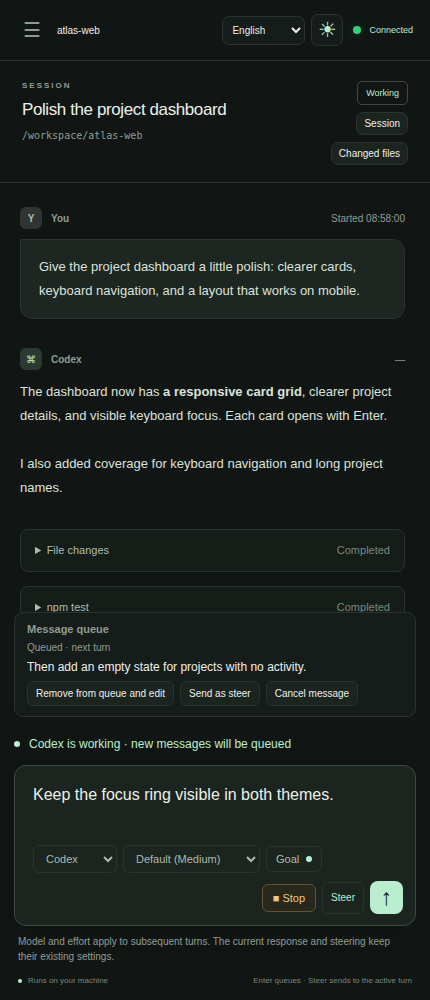
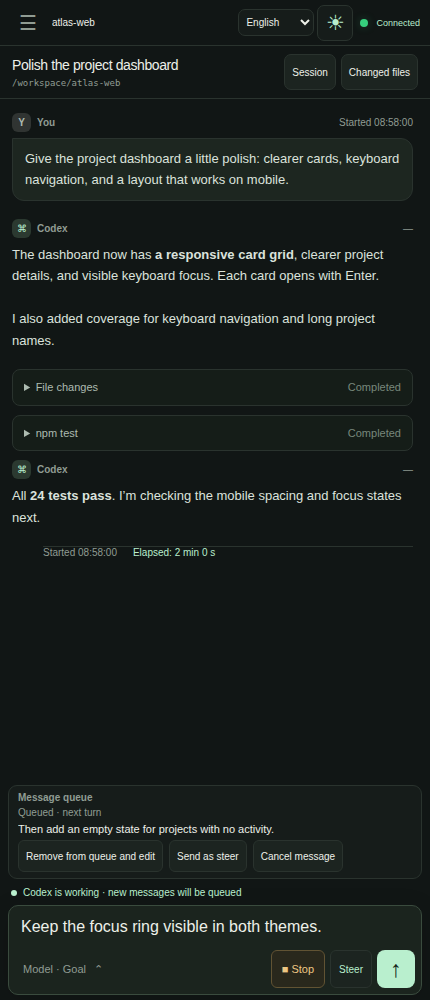
Make mobile chat compact and adapt the composer to the visible viewport

diff --git a/public/index.html b/public/index.html
@@ -60,7 +60,7 @@ værktøjer og eksisterende indstillinger.</span></p><div class="card-bottom"><s
         <div class="session-content"><div class="conversation">
         <div id="timeline" class="timeline" tabindex="0" aria-label="Samtalehistorik" data-i18n-aria="session.history"><button id="older-turns" class="quiet older" hidden><span data-i18n="session.older">Indlæs tidligere beskeder</span></button><div id="messages"></div><div id="activity" class="activity" role="status" hidden><span class="working-dot"></span> <span data-i18n="session.working">Codex arbejder…</span></div></div>
         <div id="requests" class="requests" aria-label="Afventer dit svar" data-i18n-aria="session.requests"></div>
-        <div id="queue-area" class="queue-area" hidden aria-labelledby="queue-heading"><h2 id="queue-heading" data-i18n="queue.title">Beskedkø</h2><div id="queue-list"></div><p id="queue-error" class="error" role="status"></p></div><div class="composer-area"><div id="composer-status" class="composer-status" role="status" hidden><span class="working-dot" aria-hidden="true"></span><span id="composer-status-label"></span></div><div id="edit-mode" class="edit-mode" hidden><span id="edit-mode-label"></span><button id="done-editing" type="button" data-i18n="queue.doneEditing">Afslut redigering</button></div><div id="input-warning" class="input-warning" hidden></div><form id="composer" class="composer"><label class="sr-only" for="message"><span data-i18n="session.message">Besked til Codex</span></label><div class="input-editor"><div id="input-highlight" class="input-highlight" aria-hidden="true"></div><textarea id="message" rows="2" placeholder="Hvad skal vi arbejde på?" data-i18n-placeholder="session.placeholder" maxlength="100000"></textarea></div><div id="input-skill-summary" class="input-skill-summary" role="status" hidden></div><div id="input-suggestions" class="input-suggestions" aria-label="Skills and commands" data-i18n-aria="tools.suggestions" hidden></div><div class="composer-toolbar"><div id="model-label" class="sr-only">Codex</div><div class="model-controls"><label class="sr-only" for="model-select" data-i18n="models.model">Model</label><select id="model-select" aria-describedby="models-status"></select><label class="sr-only" for="effort-select" data-i18n="models.effort">Effort</label><select id="effort-select" aria-describedby="models-status"></select><button id="models-refresh" class="icon-button" type="button" data-i18n-aria="models.retry" aria-label="Retry model discovery" hidden>↻</button><button id="goal-button" class="goal-button" type="button" aria-haspopup="dialog" aria-controls="goal-dialog">Goal<span id="goal-dot" aria-hidden="true" hidden></span></button></div><div class="composer-actions"><span class="keyboard-hint"><span data-i18n="session.keyboard">Enter sender · Shift+Enter ny linje</span></span><button id="interrupt" type="button" class="stop-button" hidden>■ <span data-i18n="session.stop">Stop</span></button><button id="steer" type="button" class="steer-button" data-i18n="queue.steerAction" hidden>Steer</button><button id="send" type="submit" class="send-button" aria-label="Send besked" data-i18n-aria="session.send" title="Send besked" data-i18n-title="session.send">↑</button></div></div></form><p id="models-status" class="models-status" role="status" hidden></p><div class="composer-foot"><span><span class="status-dot"></span> <span data-i18n="session.local">Udføres på din maskine</span></span><span id="send-mode"><span data-i18n="session.defaults">Dine Codex-indstillinger gælder</span></span></div></div>
+        <div id="queue-area" class="queue-area" hidden aria-labelledby="queue-heading"><h2 id="queue-heading" data-i18n="queue.title">Beskedkø</h2><div id="queue-list"></div><p id="queue-error" class="error" role="status"></p></div><div class="composer-area"><div id="composer-status" class="composer-status" role="status" hidden><span class="working-dot" aria-hidden="true"></span><span id="composer-status-label"></span></div><div id="edit-mode" class="edit-mode" hidden><span id="edit-mode-label"></span><button id="done-editing" type="button" data-i18n="queue.doneEditing">Afslut redigering</button></div><div id="input-warning" class="input-warning" hidden></div><form id="composer" class="composer"><label class="sr-only" for="message"><span data-i18n="session.message">Besked til Codex</span></label><div class="input-editor"><div id="input-highlight" class="input-highlight" aria-hidden="true"></div><textarea id="message" rows="2" placeholder="Hvad skal vi arbejde på?" data-i18n-placeholder="session.placeholder" maxlength="100000"></textarea></div><div id="input-skill-summary" class="input-skill-summary" role="status" hidden></div><div id="input-suggestions" class="input-suggestions" aria-label="Skills and commands" data-i18n-aria="tools.suggestions" hidden></div><div class="composer-toolbar"><div id="model-label" class="sr-only">Codex</div><button id="composer-options-toggle" class="composer-options-toggle" type="button" aria-expanded="false" aria-controls="composer-options" data-i18n-title="composer.options" data-i18n-aria="composer.options" aria-label="Model, effort og Goal"><span>Model · Goal</span><span aria-hidden="true">⌃</span></button><div id="composer-options" class="model-controls"><label class="sr-only" for="model-select" data-i18n="models.model">Model</label><select id="model-select" aria-describedby="models-status"></select><label class="sr-only" for="effort-select" data-i18n="models.effort">Effort</label><select id="effort-select" aria-describedby="models-status"></select><button id="models-refresh" class="icon-button" type="button" data-i18n-aria="models.retry" aria-label="Retry model discovery" hidden>↻</button><button id="goal-button" class="goal-button" type="button" aria-haspopup="dialog" aria-controls="goal-dialog">Goal<span id="goal-dot" aria-hidden="true" hidden></span></button></div><div class="composer-actions"><span class="keyboard-hint"><span data-i18n="session.keyboard">Enter sender · Shift+Enter ny linje</span></span><button id="interrupt" type="button" class="stop-button" hidden>■ <span data-i18n="session.stop">Stop</span></button><button id="steer" type="button" class="steer-button" data-i18n="queue.steerAction" hidden>Steer</button><button id="send" type="submit" class="send-button" aria-label="Send besked" data-i18n-aria="session.send" title="Send besked" data-i18n-title="session.send">↑</button></div></div></form><p id="models-status" class="models-status" role="status" hidden></p><div class="composer-foot"><span><span class="status-dot"></span> <span data-i18n="session.local">Udføres på din maskine</span></span><span id="send-mode"><span data-i18n="session.defaults">Dine Codex-indstillinger gælder</span></span></div></div>
         </div>
         <div id="changes-resizer" class="changes-resizer" role="separator" tabindex="0" aria-orientation="vertical" aria-controls="changes-panel" aria-label="Tilpas filpanelets bredde" data-i18n-aria="changes.resize" data-i18n-title="changes.resizeHint" hidden></div>
         <aside id="changes-panel" class="changes-panel" hidden aria-labelledby="changes-heading">

diff --git a/public/style.css b/public/style.css
@@ -37,3 +37,18 @@ main{display:flex;flex-direction:column;min-height:0;min-width:0}.topbar{height:
 .goal-button{display:inline-flex;align-items:center;gap:7px;border:1px solid var(--border);border-radius:6px;color:var(--secondary-text);background:var(--composer-bg);font-size:11px;padding:6px 9px;white-space:nowrap}.goal-button:focus-visible{outline:2px solid var(--mint);outline-offset:2px}#goal-dot{width:6px;height:6px;border-radius:50%;background:var(--amber)}#goal-dot[data-status="active"],#goal-dot[data-status="complete"]{background:var(--mint)}#goal-dialog{width:min(600px,calc(100% - 30px));max-height:90dvh;overflow:auto}#goal-state{color:var(--mint);font-weight:600}#goal-objective{resize:vertical;min-height:110px;max-height:35dvh;font-size:13px;margin:8px 0 16px}#goal-budget{margin-top:8px}.goal-actions{display:flex;gap:8px;flex-wrap:wrap;margin-top:16px}.goal-actions button{border:1px solid var(--border);background:var(--panel2);border-radius:6px;padding:8px 11px;font-size:12px}.goal-warning{color:var(--amber)}.goal-current{white-space:pre-wrap;overflow-wrap:anywhere;max-height:120px;overflow:auto;border-left:2px solid var(--mint);padding-left:12px}#goal-clear,#goal-clear-yes{color:var(--red)}@media(max-width:760px){#goal-objective,#goal-budget{font-size:16px}}
 
 .session-row-heading{display:flex;align-items:center;gap:7px;min-width:0}.session-row-heading .session-row-title{flex:1;min-width:0}.session-activity{display:inline-flex;align-items:center;gap:5px;flex:none;border-radius:5px;padding:4px 5px;font-size:9px;line-height:1.2;font-weight:600;white-space:nowrap;background:var(--soft-bg);color:var(--muted)}.session-activity-dot{width:6px;height:6px;border-radius:50%;background:currentColor;flex:none}.session-row[data-activity="working"]{border-left:3px solid #36cf7d;padding-left:9px}.session-row[data-activity="working"] .session-activity{color:#36cf7d;background:var(--selected-bg)}.session-row[data-activity="working"] .session-activity-dot{animation:session-activity-pulse 1.6s ease-in-out infinite}.session-row[data-activity="waiting"]{border-left:3px solid var(--amber);padding-left:9px}.session-row[data-activity="waiting"] .session-activity{color:var(--amber);background:var(--warning-bg)}:root[data-theme="light"] .session-row[data-activity="working"]{border-left-color:#168447}:root[data-theme="light"] .session-row[data-activity="working"] .session-activity{color:#168447}@keyframes session-activity-pulse{50%{opacity:.35}}@media(prefers-reduced-motion:reduce){.session-row[data-activity="working"] .session-activity-dot{animation:none}}
+
+.composer-options-toggle{display:none}
+@media(max-width:760px){
+  .workspace{height:var(--mobile-height,100dvh)}
+  .topbar{height:46px;padding:0 10px;gap:6px}.topbar-actions{gap:7px}.preferences{gap:3px}.preferences select{padding:6px 3px;width:76px}.topbar .icon-button,.topbar .theme-toggle{min-width:36px;min-height:36px}
+  .session-header{padding:8px 12px;gap:8px;align-items:center}.session-header .eyebrow,.session-header .session-status{display:none}.session-header h1{font-size:14px;line-height:1.35;margin:0 0 3px;-webkit-line-clamp:1}.session-path{font-size:9px}.session-header-actions{flex-direction:row;gap:5px}.session-header-actions .changes-toggle{min-height:36px;padding:5px 7px}
+  .timeline>.activity{display:none}
+  .timeline{padding:14px 12px 8px}.message{margin-bottom:18px}.message-label{margin-bottom:6px;gap:6px}.message-label .avatar{width:19px;height:19px}.message-body{line-height:1.65}.message.user .message-body{padding:9px 12px}.tool-item{margin-bottom:9px}.tool-item summary{padding:9px 11px}.turn-timing{padding-top:0;padding-bottom:10px}.activity{padding:5px 0;font-size:10px}
+  .composer-area{padding:5px 8px max(5px,env(safe-area-inset-bottom))}.composer{border-radius:10px}.composer textarea{min-height:42px;max-height:144px;padding:9px 12px;line-height:1.5}.input-highlight{padding:9px 12px;line-height:1.5}.input-skill-summary{padding:2px 12px}.input-suggestions{max-height:100px}
+  .composer-toolbar{padding:2px 6px 6px;gap:5px}.composer-options-toggle{display:inline-flex;align-items:center;gap:8px;min-height:38px;padding:5px 8px;background:transparent;color:var(--muted);border-radius:6px;font-size:11px;order:1}.composer.options-open .composer-options-toggle>span:last-child{transform:rotate(180deg)}
+  .composer .model-controls{display:none;order:0;flex-basis:100%;padding:5px 2px;border-bottom:1px solid var(--border)}.composer.options-open .model-controls{display:flex}.composer .model-controls select,.composer .goal-button,.composer .model-controls .icon-button{min-height:36px}.composer .model-controls #model-select{max-width:50%}.composer .model-controls #effort-select{max-width:30%}
+  .composer-actions{order:2;gap:5px}.send-button{width:38px;height:38px}.stop-button,.steer-button{min-height:38px}.composer-foot{display:none}.composer-status{padding:2px 3px 5px;font-size:10px;line-height:1.4;gap:6px}.models-status{padding:4px 3px 0}.models-status[data-state="models.nextTurn"]{display:none}.edit-mode{margin-bottom:4px}.edit-mode button{min-height:32px}
+  .queue-area{margin:0 8px;padding:6px 9px;max-height:20%}.queue-area h2{margin-bottom:4px;font-size:10px}.queue-text{margin:3px 0;max-height:60px;font-size:11px}.queue-actions button{min-height:32px;padding:4px 7px}.queued-message+.queued-message{margin-top:6px;padding-top:6px}
+  .requests{padding:0 8px;max-height:30%}.request-card{margin:5px 0;padding:10px 12px}.request-card h3{margin-bottom:6px}.request-card p{margin:5px 0}.request-actions{margin-top:8px}.request-actions button{min-height:36px}.input-warning{padding:0 3px 5px}
+}

diff --git a/public/app.js b/public/app.js
@@ -446,6 +446,33 @@ function renderMessages(forceBottom = false) {
   $('activity').hidden = !state.connected || !isWorking(state);
   timeline.scrollTop = bottom ? timeline.scrollHeight : scrollTop;
 }
+const mobileComposer = window.matchMedia('(max-width: 760px)');
+let composerSize = {};
+function resizeComposer() {
+  const input = $('message'), width = input.clientWidth;
+  if (!width) return;
+  const mobile = mobileComposer.matches;
+  const viewport = window.visualViewport?.height || window.innerHeight;
+  const maximum = mobile ? Math.max(64, Math.min(144, Math.floor(viewport * .28))) : 180;
+  if (composerSize.text === input.value && composerSize.width === width && composerSize.maximum === maximum && composerSize.mobile === mobile) return;
+  const timeline = $('timeline');
+  const pinned = timeline.scrollHeight - timeline.scrollTop - timeline.clientHeight < 100;
+  const scroll = input.scrollTop;
+  input.style.height = '0px';
+  input.style.height = `${Math.min(maximum, Math.max(mobile ? 42 : 66, input.value ? input.scrollHeight : 0))}px`;
+  input.style.overflowY = input.value && input.scrollHeight > input.clientHeight ? 'auto' : 'hidden';
+  input.scrollTop = scroll;
+  if (pinned) timeline.scrollTop = timeline.scrollHeight;
+  composerSize = { text: input.value, width, maximum, mobile };
+}
+function updateComposerViewport() {
+  const timeline = $('timeline');
+  const pinned = timeline.scrollHeight - timeline.scrollTop - timeline.clientHeight < 100;
+  const viewport = window.visualViewport;
+  if (!viewport || viewport.scale === 1) document.documentElement.style.setProperty('--mobile-height', `${Math.round(viewport?.height || innerHeight)}px`);
+  resizeComposer();
+  if (pinned) timeline.scrollTop = timeline.scrollHeight;
+}
 function renderControls() {
   const active = activeTurn(state);
   const working = isWorking(state);
@@ -465,6 +492,8 @@ function renderControls() {
   $('input-warning').textContent = t('session.noInput');
   $('send-mode').textContent = active ? t('session.steer') : t('session.defaults');
   queue.render();
+  if (mobileComposer.matches && working) $('message').placeholder = t('composer.nextMessage');
+  resizeComposer();
   sessionTools.render();
   models.render(); goals.render();
 }
@@ -566,6 +595,10 @@ $('new-session').onclick = () => projects.open();
 $('welcome-new').onclick = () => projects.open();
 $('message').oninput=()=>{drafts.set(state.selectedId,$('message').value);renderControls();};
 $('message').onkeydown=event=>{if(sessionTools.keydown(event))return;queue.keydown(event);if(event.key==='Enter'&&!event.shiftKey&&!event.isComposing){event.preventDefault();if(!$('send').disabled)$('composer').requestSubmit();}};
+$('composer-options-toggle').onclick = () => {
+  const open = $('composer').classList.toggle('options-open');
+  $('composer-options-toggle').setAttribute('aria-expanded', String(open));
+};
 $('composer').onsubmit=event=>{event.preventDefault();queue.submit();};
 $('interrupt').onclick=async()=>{const turn=activeTurn(state);if(!turn)return;try{await api(`/api/threads/${encodeURIComponent(state.selectedId)}/interrupt`,{turnId:turn.id});}catch(error){notice(error);}};
 window.addEventListener('hashchange',()=>{const id=new URLSearchParams(location.hash.slice(1)).get('session');if(id&&id!==state.selectedId)openThread(id);});
@@ -585,4 +618,8 @@ const models = initModels({ api, getState: () => state, renderApp: renderAll, no
 const queue = initQueue({ api, getState: () => state, notice, renderApp: renderAll, getDraft: id => drafts.get(id) || '', saveDraft: (id, text) => drafts.set(id, text), skillsFor: sessionTools.skillsFor, handleCommand: sessionTools.submit, isSettingsBusy: models.busy, refreshHistory: scheduleHistoryRefresh });
 const projects = initProjects({ api, getDefaultCwd: () => state.thread?.cwd || defaultCwd, onCreated: async result => { await loadThreads().catch(notice); await openThread(result.thread.id); } });
 initPreferences(() => { renderConnection(); renderAll(); changes.render(); projects.render(); });
+new ResizeObserver(resizeComposer).observe($('message'));
+window.addEventListener('resize', updateComposerViewport);
+window.visualViewport?.addEventListener('resize', updateComposerViewport);
+updateComposerViewport();
 enter().catch(()=>showLogin());

diff --git a/test/browser/mobile-composer.spec.js b/test/browser/mobile-composer.spec.js
@@ -1,0 +1,47 @@
+import { test, expect } from '@playwright/test';
+
+test('mobile composer grows and shrinks with drafts, folds options, and leaves chat visible with a keyboard-sized viewport', async ({ page }) => {
+  const errors = []; page.on('pageerror', error => errors.push(error.message));
+  await page.setViewportSize({ width: 390, height: 844 });
+  await page.goto('/#session=session-one');
+  await page.locator('#access-key').fill('browser-test-access-key-123456789');
+  await page.locator('#login-form button[type=submit]').click();
+  await expect(page.locator('#message')).toBeEnabled();
+  if (await page.locator('#close-changes').isVisible()) await page.locator('#close-changes').click();
+  if (await page.locator('#interrupt').isVisible()) { await page.locator('#interrupt').click(); await expect(page.locator('#session-status')).toHaveText('Klar'); }
+  const input = page.locator('#message'), height = async () => (await input.boundingBox()).height;
+  await expect(page.locator('#model-select')).toBeHidden();
+  await expect.poll(height).toBeLessThanOrEqual(44);
+  await input.fill('First line\nSecond line\nThird line');
+  await expect.poll(height).toBeGreaterThan(75);
+  await page.locator('#composer-options-toggle').click();
+  await expect(page.locator('#model-select')).toBeVisible(); await expect(page.locator('#goal-button')).toBeVisible();
+  await expect(input).toHaveValue('First line\nSecond line\nThird line');
+  await page.locator('#composer-options-toggle').click();
+  await input.fill('Ja'); await expect.poll(height).toBeLessThanOrEqual(44);
+  await input.focus();
+  // Android keyboards can shrink only visualViewport, leaving innerHeight unchanged.
+  await page.evaluate(() => { Object.defineProperty(visualViewport, 'height', { configurable: true, get: () => 360 }); visualViewport.dispatchEvent(new Event('resize')); });
+  await expect.poll(async () => (await page.locator('#workspace').boundingBox()).height).toBe(360);
+  expect(await page.evaluate(() => innerHeight)).toBe(844);
+  await expect.poll(async () => (await page.locator('#timeline').boundingBox()).height).toBeGreaterThan(140);
+  await page.evaluate(() => { delete visualViewport.height; visualViewport.dispatchEvent(new Event('resize')); });
+  await page.setViewportSize({ width: 390, height: 360 });
+  await expect.poll(async () => (await page.locator('#timeline').boundingBox()).height).toBeGreaterThan(140);
+  await input.fill('A long draft\n'.repeat(20));
+  await expect.poll(height).toBeLessThanOrEqual(101);
+  expect(await input.evaluate(el => el.scrollHeight > el.clientHeight)).toBe(true);
+  await input.fill('short'); await expect.poll(height).toBeLessThanOrEqual(44);
+  await page.locator('#send').click(); await expect(input).toHaveValue('');
+  await expect.poll(height).toBeLessThanOrEqual(44);
+  await page.setViewportSize({ width: 320, height: 360 });
+  await page.locator('#workspace [data-language-select]').selectOption('en');
+  await page.locator('#workspace [data-theme-toggle]').click();
+  expect(await page.evaluate(() => document.documentElement.scrollWidth <= innerWidth)).toBe(true);
+  await expect(page.locator('#send')).toBeVisible();
+  await page.screenshot({ path: 'test-results/mobile-keyboard-viewport.png' });
+  await page.setViewportSize({ width: 1440, height: 1000 });
+  await expect(page.locator('#model-select')).toBeVisible();
+  await expect(page.locator('#composer-options-toggle')).toBeHidden();
+  expect(errors).toEqual([]);
+});

diff --git a/test/browser/models.spec.js b/test/browser/models.spec.js
@@ -53,6 +53,7 @@ test('a newer settings event wins over a delayed acknowledgement and sending wai
 test('failed catalog and settings requests retain current values, allow retry and fit mobile in both languages', async ({ page }) => {
   await page.setViewportSize({ width: 320, height: 844 });
   await login(page);
+  await page.locator('#composer-options-toggle').click();
   await page.locator('#message').fill('Preserved on failure');
   await page.route('**/session-one/settings', route => route.request().method() === 'POST' ? route.fulfill({ status: 409, json: { error: 'Synthetic catalog change', errorKey: 'models.unavailable' } }) : route.continue());
   await page.locator('#model-select').selectOption('demo-fast');
@@ -64,6 +65,7 @@ test('failed catalog and settings requests retain current values, allow retry an
   await page.unroute('**/session-one/settings');
   await page.route('**/api/models', route => route.fulfill({ status: 503, json: { error: 'Synthetic catalog failure' } }));
   await page.reload(); await expect(page.locator('#models-status')).toContainText('Model-listen kunne ikke hentes');
+  await page.locator('#composer-options-toggle').click();
   await expect(page.locator('#model-select')).toBeDisabled(); await expect(page.locator('#model-select')).toHaveValue('local-model');
   await page.unroute('**/api/models'); await page.locator('#models-refresh').click(); await expect(page.locator('#model-select')).toBeEnabled();
   await page.locator('#workspace [data-language-select]').selectOption('en');

diff --git a/public/locales.js b/public/locales.js
@@ -2,6 +2,8 @@
 export const languages = { da: 'Dansk', en: 'English' };
 export const messages = {
   da: {
+    "composer.options": "Vis eller skjul model, effort og Goal",
+    "composer.nextMessage": "Næste besked…",
     "goals.objective": "Opgave og kriterier for færdiggørelse",
     "goals.budget": "Tokenbudget",
     "goals.budgetHint": "Tomt felt betyder intet tokenbudget. Forbruget kommer fra Codex-serveren.",
@@ -363,6 +365,8 @@ export const messages = {
     'error.noPending': 'Anmodningen afventer ikke længere svar. Den kan være besvaret i en anden klient.',
   },
   en: {
+    "composer.options": "Show or hide model, effort and Goal",
+    "composer.nextMessage": "Next message…",
     "goals.objective": "Objective and completion criteria",
     "goals.budget": "Token budget",
     "goals.budgetHint": "Leave blank for no token budget. Usage is reported by the Codex server.",

diff --git a/test/browser/goals.spec.js b/test/browser/goals.spec.js
@@ -36,6 +36,7 @@ test('Goal remains the feature name in Danish and English; native lifecycle, for
   await expect(page.locator('#goal-button')).toHaveText('Goal');
   await page.setViewportSize({ width: 320, height: 844 });
   if (await page.locator('#close-changes').isVisible()) await page.locator('#close-changes').click();
+  await page.locator('#composer-options-toggle').click();
   await page.locator('#goal-button').click();
   await expect(page.locator('#goal-state')).toHaveText('No Goal in this session');
   expect(await page.evaluate(() => document.documentElement.scrollWidth <= innerWidth && document.getElementById('goal-dialog').scrollWidth <= document.getElementById('goal-dialog').clientWidth)).toBe(true);

diff --git a/public/models.js b/public/models.js
@@ -36,6 +36,7 @@ export function initModels({ api, getState, renderApp, notice, isQueueBusy }) {
     $('models-refresh').hidden = !failure && !needsRefresh;
     $('model-select').title = t('models.modelHint'); $('effort-select').title = t('models.effortHint');
     const hint = busy() ? 'models.saving' : failure ? 'models.loadFailed' : isWorking(state) ? 'models.nextTurn' : null;
+    $('models-status').dataset.state = hint || '';
     $('models-status').hidden = !hint;
     $('models-status').textContent = hint ? t(hint) : '';
     if (busy()) { $('send').disabled = true; $('steer').disabled = true; }

diff --git a/README.md b/README.md
@@ -155,6 +155,8 @@ This service runs only the web server. The Codex daemon must have its own startu
 
 The session list marks active sessions with a green edge and a **Working** badge, and sessions awaiting approval or input with an amber **Needs input** badge. Activity is based on Codex runtime state and pending requests, including sessions other than the open chat. The open chat also uses its current turn state. Live status events update the badges; the existing 30-second session refresh picks up other server-reported changes. A disconnected browser shows previously active sessions as **Unknown**, without animation. Both themes and languages are supported, and the activity pulse respects reduced-motion preferences.
 
+On phones, the message field starts at one line, grows with your draft, and scrolls internally for longer text. Model, effort, and Goal controls sit behind the **Model · Goal** toggle; send, steer, and stop remain directly accessible. Compact headers and spacing leave more room for chat. The layout follows the browser's visible viewport as the on-screen keyboard opens, and keeps the newest message in view when you were already at the bottom. Warnings, queued messages, and approval requests remain accessible.
+
 ## Goal controls
 
 The **Goal** button beside the model and effort selectors opens the selected session's native Goal. The feature name stays **Goal** in every UI language; descriptions and actions follow your language setting. `/goal` opens the same dialog.
